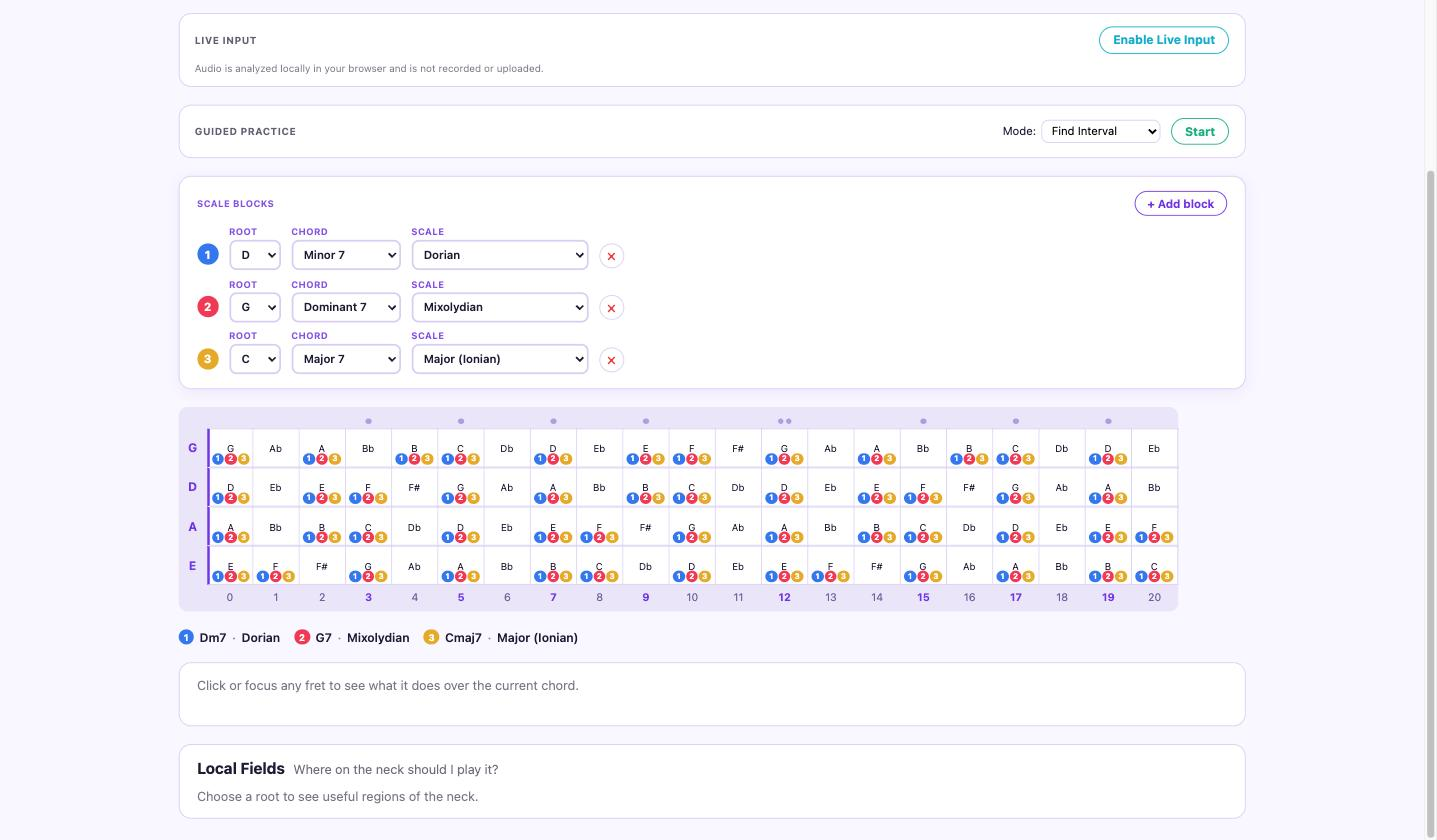
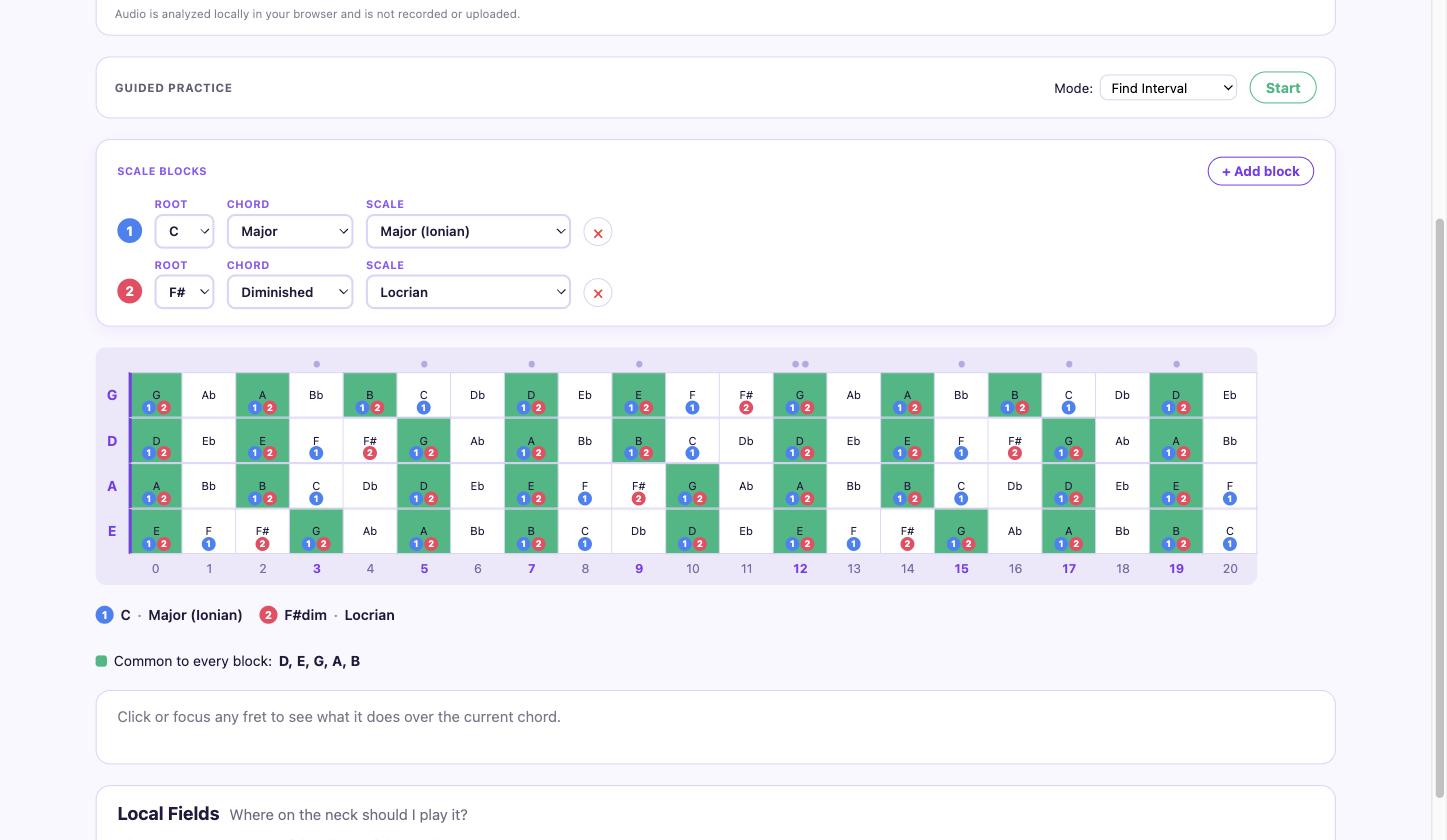
feat: show notes common to every Scale Blocks scale
Adds a "Common to every block" line to ScaleBlockLegend listing the note
names present in every configured block's scale (the full intersection,
ordered by the first block's own scale degrees), and fills those frets'
background with a distinct accent color on the fretboard alongside their
existing numbered chips — the "safe over the whole progression" notes
now read at a glance instead of requiring the player to cross-reference
chip numbers by hand.

Also refreshes the README's Scale Blocks screenshot to a genuinely
partial-overlap example (C Ionian + F# Locrian) so the new highlight is
visible against non-common frets, and documents the addition in
BLUEPRINT.md §20.

diff --git a/src/lib/components/ScaleBlockLegend.svelte b/src/lib/components/ScaleBlockLegend.svelte
@@ -1,7 +1,11 @@
 <script lang="ts">
 	import { getChordDefinition } from '$lib/music/chords';
 	import { defaultNoteName } from '$lib/music/pitch';
-	import { getScaleDefinition } from '$lib/music/scales';
+	import {
+		getScaleDefinition,
+		scaleContainsPitchClass,
+		scalePitchClasses
+	} from '$lib/music/scales';
 	import { fretfield } from '$lib/stores/fretfield.svelte';
 
 	const configuredBlocks = $derived(
@@ -11,6 +15,25 @@
 				({ block }) => block.root !== null && block.chordId !== null && block.scaleId !== null
 			)
 	);
+
+	// Ordered by the first block's own scale degrees (not chromatically) so
+	// e.g. a shared root reads first — every pitch class here is by
+	// definition already in every other configured block's scale too.
+	const commonNoteNames = $derived.by<string[]>(() => {
+		if (configuredBlocks.length < 2) return [];
+		const [first, ...rest] = configuredBlocks;
+		const firstPitchClasses = scalePitchClasses(
+			first.block.root!,
+			getScaleDefinition(first.block.scaleId!)
+		);
+		return firstPitchClasses
+			.filter((pitchClass) =>
+				rest.every(({ block }) =>
+					scaleContainsPitchClass(block.root!, getScaleDefinition(block.scaleId!), pitchClass)
+				)
+			)
+			.map(defaultNoteName);
+	});
 </script>
 
 {#if configuredBlocks.length > 0}
@@ -24,6 +47,16 @@
 			</li>
 		{/each}
 	</ul>
+{/if}
+{#if configuredBlocks.length >= 2}
+	<p class="scale-block-common-notes">
+		{#if commonNoteNames.length > 0}
+			<span class="common-swatch" aria-hidden="true"></span>
+			Common to every block: <strong>{commonNoteNames.join(', ')}</strong>
+		{:else}
+			No note is in every block's scale.
+		{/if}
+	</p>
 {/if}
 
 <style>
@@ -75,5 +108,22 @@
 
 	.chip[data-block='3'] {
 		background: var(--scale-block-4, #8b5cf6);
+	}
+
+	.scale-block-common-notes {
+		display: flex;
+		align-items: center;
+		gap: 0.4rem;
+		margin: 0.5rem 0 0;
+		font-size: 0.85rem;
+		color: var(--fret-fg, #241a3d);
+	}
+
+	.common-swatch {
+		display: inline-block;
+		width: 0.7rem;
+		height: 0.7rem;
+		border-radius: 3px;
+		background: var(--scale-block-common, #10b981);
 	}
 </style>

diff --git a/e2e/scale-blocks.e2e.ts b/e2e/scale-blocks.e2e.ts
@@ -38,6 +38,9 @@ test.describe('Scale Blocks', () => {
 
 		await expect(page.locator('.scale-block-legend')).toContainText('C');
 		await expect(page.locator('.scale-block-legend')).toContainText('Ionian');
+
+		// A single block has nothing to be "common" with.
+		await expect(page.locator('.scale-block-common-notes')).toHaveCount(0);
 	});
 
 	test('a second block shows exclusive and overlapping chips correctly', async ({ page }) => {
@@ -66,6 +69,31 @@ test.describe('Scale Blocks', () => {
 		// Bb (A string fret 1): in neither.
 		await expect(page.getByTestId('fret-A-1').locator('[data-block="0"]')).not.toBeVisible();
 		await expect(page.getByTestId('fret-A-1').locator('[data-block="1"]')).not.toBeVisible();
+	});
+
+	test('notes common to every configured block are shown in the legend and on the fretboard', async ({
+		page
+	}) => {
+		await page.goto('/');
+		await page.getByRole('tab', { name: 'Scale Blocks' }).click();
+
+		await addBlock(page, 1, 'C', 'Major', 'Major (Ionian)');
+		await addBlock(page, 2, 'F#', 'Diminished', 'Locrian');
+
+		const commonNotes = page.locator('.scale-block-common-notes');
+		await expect(commonNotes).toContainText('Common to every block');
+		for (const note of ['G', 'A', 'B', 'D', 'E']) {
+			await expect(commonNotes).toContainText(note);
+		}
+
+		// G, A: in both blocks' scales.
+		await expect(page.getByTestId('fret-G-0')).toHaveClass(/scale-block-common/);
+		await expect(page.getByTestId('fret-A-0')).toHaveClass(/scale-block-common/);
+
+		// C: block 1 only, not common to both.
+		await expect(page.getByTestId('fret-A-3')).not.toHaveClass(/scale-block-common/);
+		// F#: block 2 only, not common to both.
+		await expect(page.getByTestId('fret-E-2')).not.toHaveClass(/scale-block-common/);
 	});
 
 	test('removing a block clears its chips and its row', async ({ page }) => {

diff --git a/src/lib/stores/fretfield.svelte.ts b/src/lib/stores/fretfield.svelte.ts
@@ -108,6 +108,8 @@ export interface DisplayFretPosition extends FretPosition {
 	isLiveNextTarget: boolean;
 	/** Scale Blocks: indices into `chordBlocks` of every fully-configured block whose scale contains this pitch class. Always empty outside `scale-blocks` mode. */
 	scaleBlockMembership: number[];
+	/** Scale Blocks: this pitch class is in every configured block's scale (never true with fewer than 2 configured blocks). */
+	isScaleBlockCommonNote: boolean;
 }
 
 /** A progression chord enriched with its display symbol, for the ProgressionStrip. */
@@ -319,6 +321,9 @@ class FretFieldStore {
 					)
 				)
 				.map(({ index }) => index);
+		const isScaleBlockCommonNoteFor = (position: FretPosition): boolean =>
+			activeChordBlocks.length >= 2 &&
+			scaleBlockMembershipFor(position).length === activeChordBlocks.length;
 
 		if (analyzed === null) {
 			return createFretboard(this.tuning, this.fretCount).map((position) => ({
@@ -340,7 +345,8 @@ class FretFieldStore {
 				isLivePlayed: isLivePlayedPosition(position),
 				isLiveLikely: isLiveLikelyPosition(position),
 				isLiveNextTarget: isLiveNextTargetPosition(position),
-				scaleBlockMembership: scaleBlockMembershipFor(position)
+				scaleBlockMembership: scaleBlockMembershipFor(position),
+				isScaleBlockCommonNote: isScaleBlockCommonNoteFor(position)
 			}));
 		}
 
@@ -398,7 +404,8 @@ class FretFieldStore {
 			isLivePlayed: isLivePlayedPosition(position),
 			isLiveLikely: isLiveLikelyPosition(position),
 			isLiveNextTarget: isLiveNextTargetPosition(position),
-			scaleBlockMembership: scaleBlockMembershipFor(position)
+			scaleBlockMembership: scaleBlockMembershipFor(position),
+			isScaleBlockCommonNote: isScaleBlockCommonNoteFor(position)
 		}));
 	});
 

diff --git a/src/lib/components/FretCell.svelte b/src/lib/components/FretCell.svelte
@@ -61,6 +61,7 @@
 				`in scale for block ${position.scaleBlockMembership.map((i) => i + 1).join(', block ')}`
 			);
 		}
+		if (position.isScaleBlockCommonNote) parts.push('common to every block');
 		return parts.join(', ');
 	});
 </script>
@@ -77,6 +78,7 @@
 	class:live-likely={position.isLiveLikely}
 	class:live-next-target={position.isLiveNextTarget}
 	class:practice-target={isPracticeTarget}
+	class:scale-block-common={position.isScaleBlockCommonNote}
 	data-path-role={position.pathRole}
 	data-practice-result={practiceResult}
 	data-testid={`fret-${stringName}-${position.fret}`}
@@ -368,6 +370,21 @@
 		.practice-result-marker[data-result='strong-alternative'] {
 			animation: live-pulse 700ms ease-out 1;
 		}
+	}
+
+	/*
+	 * Scale Blocks: a note shared by every configured block's scale gets a
+	 * bright fill of its own, distinct from any single block's chip color
+	 * (blue/rose/amber/violet) so it reads as "common to all", not "in one
+	 * more block". The numbered chips still show underneath/around it —
+	 * this never replaces that per-block detail, only adds to it.
+	 */
+	.fret-cell.scale-block-common {
+		background: var(--scale-block-common, #10b981);
+	}
+
+	.fret-cell.scale-block-common:hover {
+		background: var(--scale-block-common-hover, #059669);
 	}
 
 	/*

diff --git a/BLUEPRINT.md b/BLUEPRINT.md
@@ -727,6 +727,8 @@ every fret on the neck shows which block(s)' scale contain its pitch class
 
 **Fretboard rendering:** with no single shared chord, the base pill always shows a plain note name (the existing no-root fallback branch, not a new code path). Membership in each configured block's scale is shown as a small row of up to 4 numbered, colored chips per fret — the number identifies the block without relying on color alone (§22's non-color-signal rule), and a fret can carry multiple chips at once when its pitch class is in more than one block's scale (a common, musically expected case: e.g. D Dorian and G Mixolydian are different modes of the same seven notes).
 
+**Common tones:** with 2+ configured blocks, `ScaleBlockLegend` also lists the note names present in _every_ block's scale (the full intersection, not any pairwise overlap) and the fretboard fills those frets' background with a distinct accent color instead of just their chips — the "safe over the whole progression" notes should read at a glance, the same instinct behind Live Input's bright fill for the confirmed played position (§18).
+
 **Not built (yet):** URL persistence for `chordBlocks` (session-only, matching Guided Practice's own precedent), Local Field constraining of Scale Blocks, and Live Input/Guided Practice integration with this mode.
 
 ---

diff --git a/README.md b/README.md
@@ -66,9 +66,9 @@ FretField is an interactive bass-fretboard application that teaches the neck as 
 <tr>
 <td width="50%">
 
-**Scale Blocks** — up to 4 chords' scales overlaid at once
+**Scale Blocks** — up to 4 chords' scales overlaid at once, with shared notes called out
 
-<img src="./docs/screenshots/scale-blocks.jpg" alt="Scale Blocks showing three configured chord blocks for a Dm7-G7-Cmaj7 progression, with every fret numbered and colored by which block's scale it belongs to">
+<img src="./docs/screenshots/scale-blocks.jpg" alt="Scale Blocks showing two configured chord blocks, C Major Ionian and F# Diminished Locrian, with every fret numbered and colored by which block's scale it belongs to, and the five notes common to both scales filled in a shared accent color and listed in the legend">
 
 </td>
 <td width="50%">
